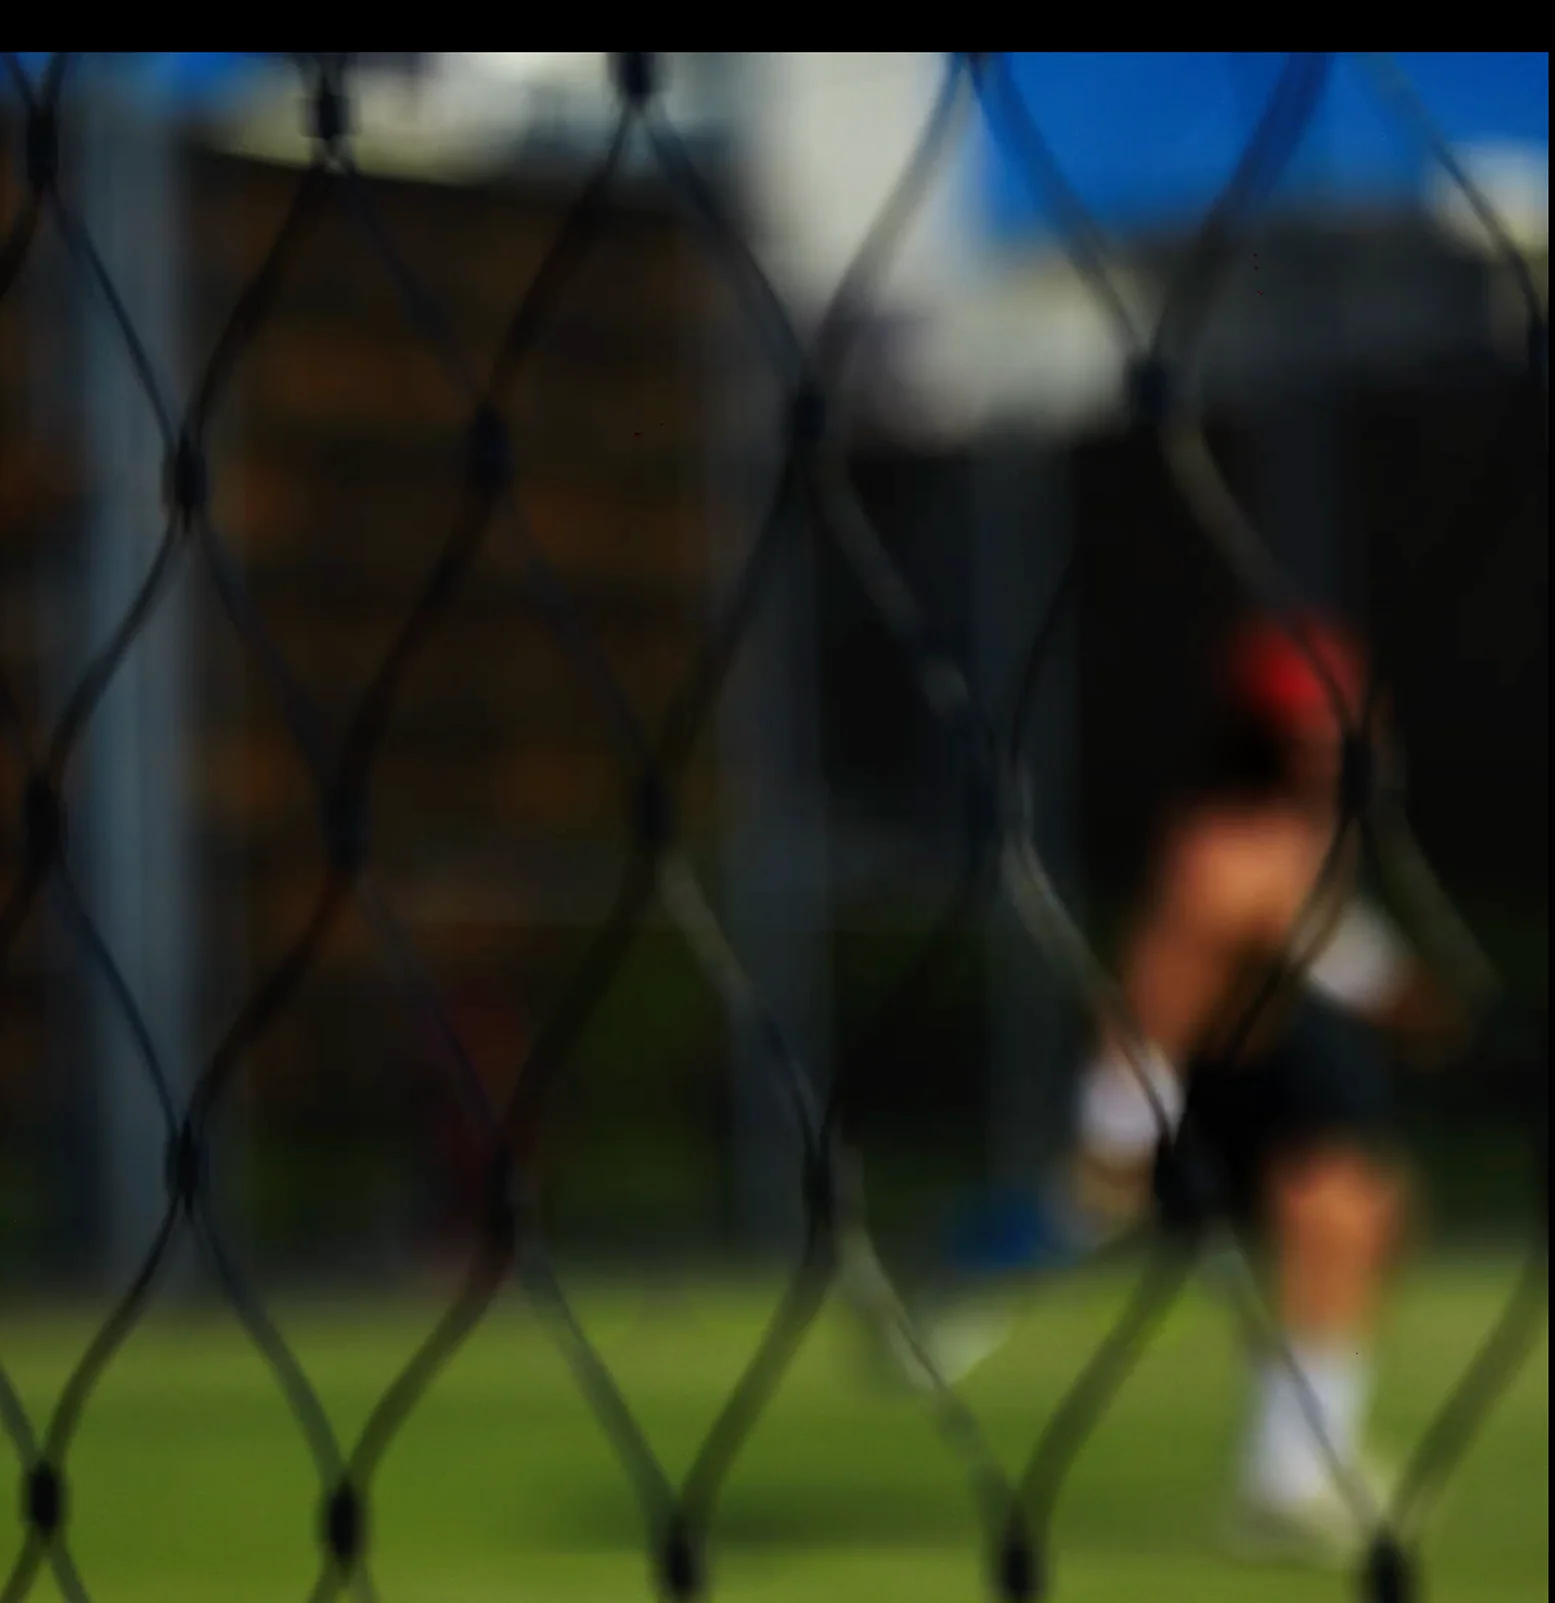
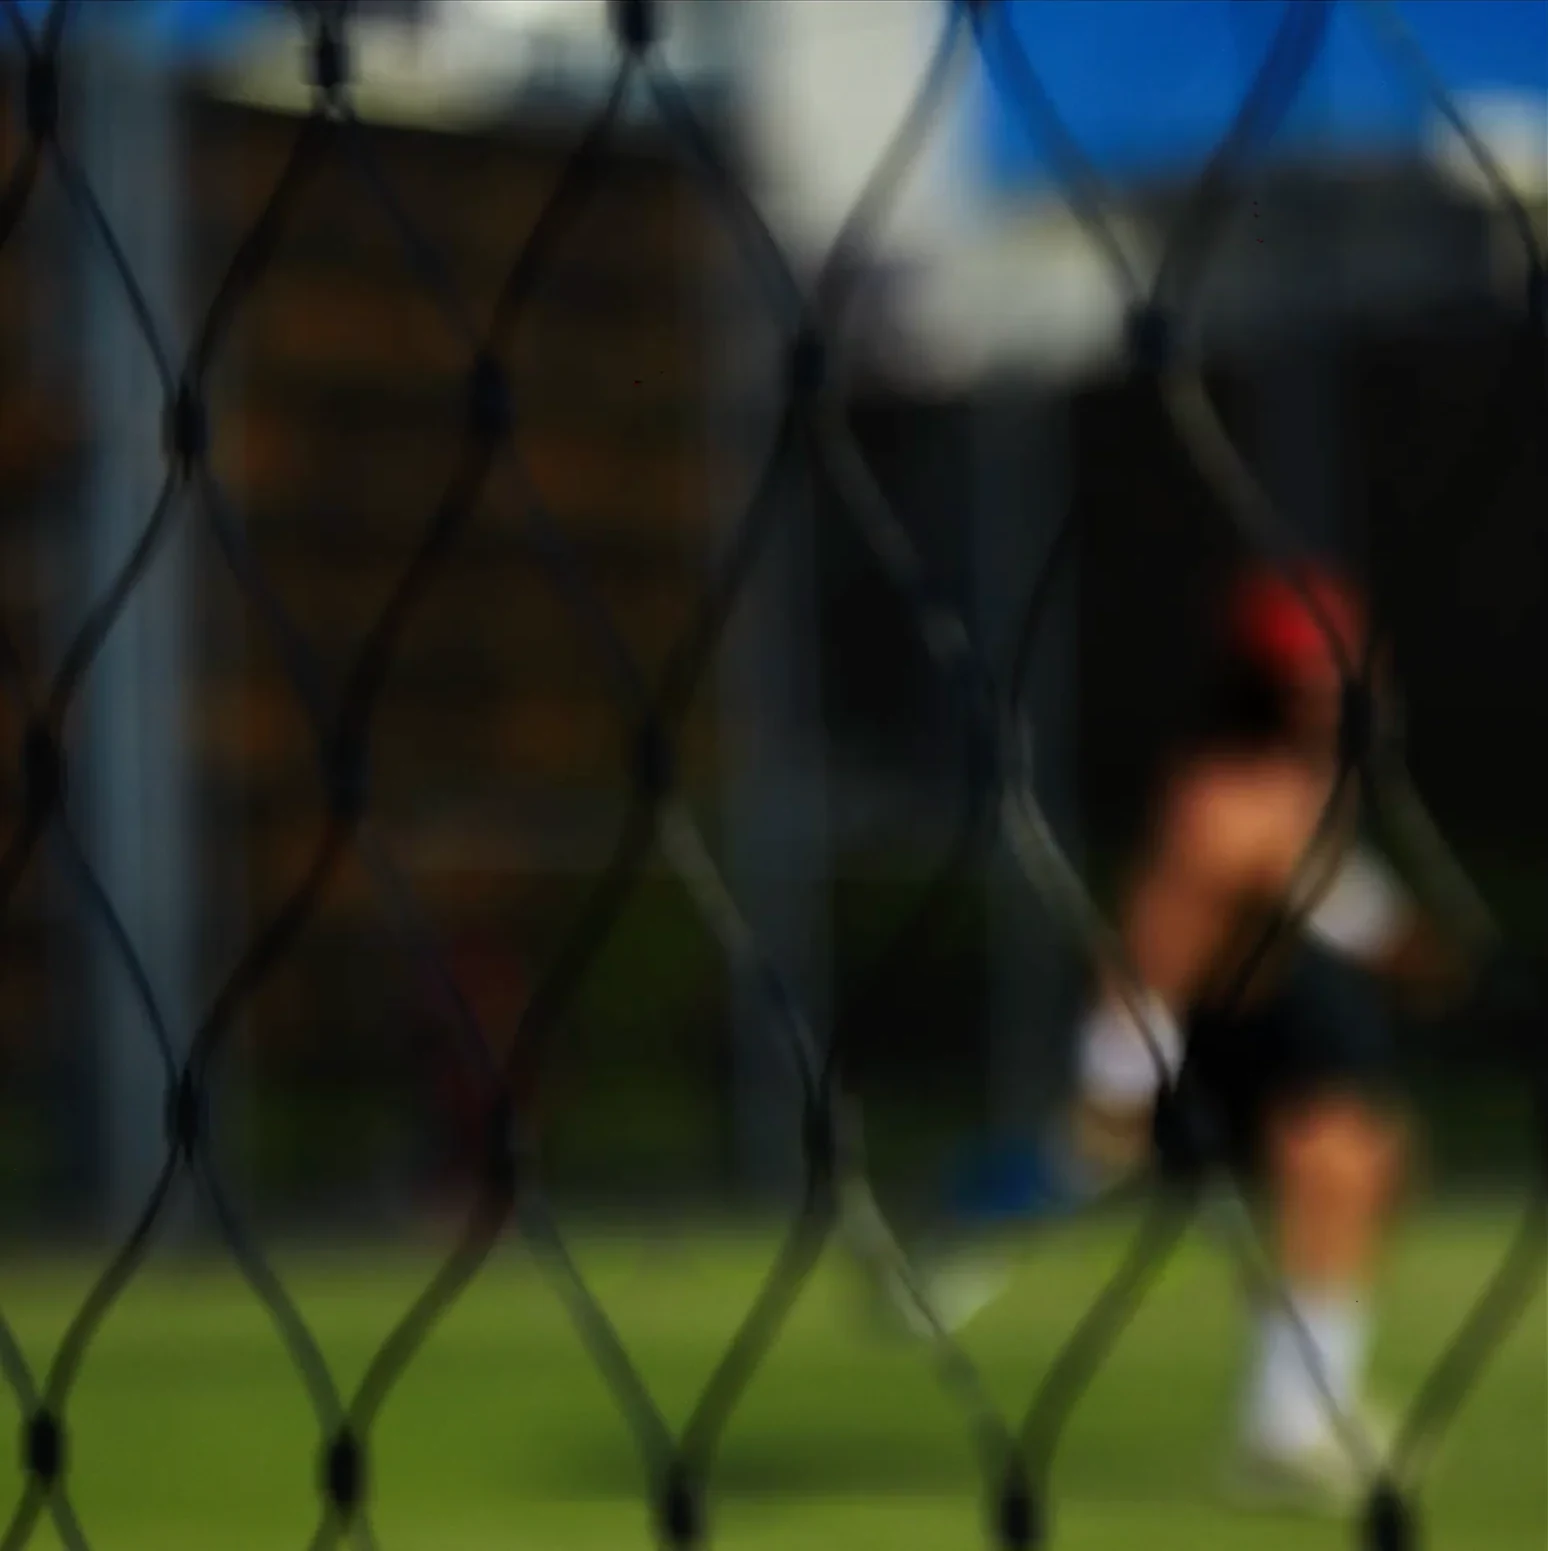
Pied de page Sport : espaces avant et après doublés (3,50 % → 7,00 %)

diff --git a/assets/css/style.css b/assets/css/style.css
@@ -278,13 +278,18 @@ body.home-page{
   background:transparent;           /* transparent : le titre de section reste visible dessous */
   transition:opacity .28s ease;
 }
-/* Quand une image/vidéo passe derrière le logo ou le menu, ils s'estompent */
+/* Quand une image ou une vidéo passe derrière le logo, il ne s'estompe plus :
+   il devient simplement OPAQUE dans sa teinte grise habituelle. Les valeurs
+   ci-dessous sont l'exact équivalent solide de rgba(24,24,24,.22) et
+   rgba(24,24,24,.82) rendus sur le fond crème : l'aspect ne change donc pas
+   sur fond uni, et reste identique par-dessus n'importe quelle image.
+   Le menu, lui, continue de s'estomper. */
 .site-header .brand,
-.site-header nav{ transition:opacity .28s ease; }
-.site-header.brand-dim .brand{ opacity:.16; }
+.site-header nav{ transition:opacity .28s ease, color .28s ease; }
+.site-header.brand-dim .brand      { opacity:1; color:#CBCBC2; }
+.site-header.brand-dim .brand .sub { color:#41413F; }
 .site-header.nav-dim   nav   { opacity:.16; }
-.site-header .brand:hover,
-.site-header nav:hover{ opacity:1; }   /* on les récupère au survol */
+.site-header nav:hover{ opacity:1; }   /* on le récupère au survol */
 .brand{
   display:inline-block;                /* le bloc prend la largeur de « JP AYIVI » */
   font-family:"Jumper",sans-serif;
@@ -1042,9 +1047,11 @@ html.has-pastille body.reel-open .reel-close, html.has-pastille body.reel-open .
   text-align:center;
   font-family:"Jumper",sans-serif;
   color:var(--ink);
-  /* Espaces égaux avant et après le pied de page (choix client). La maquette
-     donnait 14,63 % au-dessus et 19,79 % en dessous : déséquilibre de 63 %. */
-  padding:3.50vw 0;
+  /* Espaces égaux avant et après le pied de page (choix client), doublés.
+     La maquette donnait 14,63 % au-dessus et 19,79 % en dessous : déséquilibre
+     de 63 %. Les 170 px hérités des conteneurs sont neutralisés plus haut,
+     l'écart n'est donc donné que par ce padding. */
+  padding:7.00vw 0;
 }
 /* Ligne de contact — Gotham Medium demandée. Le fichier Gotham n'est pas encore
    fourni : Maison Neue Medium, déjà installée, prend le relais. Le jour où le
@@ -1084,7 +1091,7 @@ html.has-pastille body.reel-open .reel-close, html.has-pastille body.reel-open .
 .foot-nav a{ transition:opacity .18s ease; }
 .foot-nav a:hover, .foot-contact a:hover{ opacity:.6; }
 @media(max-width:600px){
-  .site-footer{ padding:44px var(--pad); }
+  .site-footer{ padding:88px var(--pad); }
   .foot-contact{ flex-wrap:wrap; gap:10px; }
   .foot-contact .sep{ display:none; }
   .foot-social{ gap:26px; margin-top:20px; }

diff --git a/sport.html b/sport.html
@@ -1,5 +1,5 @@
 <!DOCTYPE html>
-<html lang="fr" data-build="20260827-2045">
+<html lang="fr" data-build="20260827-2200">
 <head>
 <meta charset="utf-8">
 <meta http-equiv="Cache-Control" content="no-cache, no-store, must-revalidate">
@@ -10,7 +10,7 @@
 <meta name="description" content="Sport — tennis, basket et films de terrain réalisés par JP AYIVI.">
 <link rel="preload" href="assets/fonts/JumperPERSONALUSEONLY-Black.ttf" as="font" type="font/ttf" crossorigin>
 <link rel="preload" href="assets/fonts/JumperPERSONALUSEONLY-Light.ttf" as="font" type="font/ttf" crossorigin>
-<link rel="stylesheet" href="assets/css/style.css?v=aeb7f0b4">
+<link rel="stylesheet" href="assets/css/style.css?v=5ace372a">
 </head>
 <body>
 <div class="pastille-cursor" aria-hidden="true"><span>Show<br>Reeel</span></div>
@@ -45,9 +45,9 @@
     <!-- B2 — 3 carrés de 29,5 %, écart 5,75 % (pleine largeur) -->
     <figure class="reel-item">
       <div class="reel-tri">
-        <div class="reel-media"><video src="media/sport_tennis_service.mp4" poster="media/poster_sport_tennis_service.webp" playsinline preload="none"></video></div>
-        <div class="reel-media"><video src="media/sport_tennis_flou.mp4" poster="media/poster_sport_tennis_flou.webp" playsinline preload="none"></video></div>
         <div class="reel-media"><video src="media/sport_tennis_shoot.mp4" poster="media/poster_sport_tennis_shoot.webp" playsinline preload="none"></video></div>
+        <div class="reel-media"><video src="media/sport_tennis_flou.mp4" poster="media/poster_sport_tennis_flou.webp" playsinline preload="none"></video></div>
+        <div class="reel-media"><video src="media/sport_tennis_service.mp4" poster="media/poster_sport_tennis_service.webp" playsinline preload="none"></video></div>
       </div>
       <figcaption class="reel-caption"><span class="client">TENNIS</span><span class="desc">Le geste</span></figcaption>
     </figure>

diff --git a/index.html b/index.html
@@ -1,5 +1,5 @@
 <!DOCTYPE html>
-<html lang="fr" data-build="20260827-2045">
+<html lang="fr" data-build="20260827-2200">
 <head>
 <meta charset="utf-8">
 <meta http-equiv="Cache-Control" content="no-cache, no-store, must-revalidate">
@@ -10,7 +10,7 @@
 <meta name="description" content="JP AYIVI, créateur d'images : réalisation, montage et motion design pour les marques, entreprises et institutions.">
 <link rel="preload" href="assets/fonts/JumperPERSONALUSEONLY-Black.ttf" as="font" type="font/ttf" crossorigin>
 <link rel="preload" href="assets/fonts/JumperPERSONALUSEONLY-Light.ttf" as="font" type="font/ttf" crossorigin>
-<link rel="stylesheet" href="assets/css/style.css?v=aeb7f0b4">
+<link rel="stylesheet" href="assets/css/style.css?v=5ace372a">
 </head>
 <body class="home-page">
 <div class="pastille-cursor" aria-hidden="true"><span>Show<br>Reeel</span></div>

diff --git a/reseaux.html b/reseaux.html
@@ -1,5 +1,5 @@
 <!DOCTYPE html>
-<html lang="fr" data-build="20260827-2045">
+<html lang="fr" data-build="20260827-2200">
 <head>
 <meta charset="utf-8">
 <meta http-equiv="Cache-Control" content="no-cache, no-store, must-revalidate">
@@ -10,7 +10,7 @@
 <meta name="description" content="Réseaux Sociaux — contenus courts, formats verticaux et campagnes social media réalisés par JP AYIVI.">
 <link rel="preload" href="assets/fonts/JumperPERSONALUSEONLY-Black.ttf" as="font" type="font/ttf" crossorigin>
 <link rel="preload" href="assets/fonts/JumperPERSONALUSEONLY-Light.ttf" as="font" type="font/ttf" crossorigin>
-<link rel="stylesheet" href="assets/css/style.css?v=aeb7f0b4">
+<link rel="stylesheet" href="assets/css/style.css?v=5ace372a">
 </head>
 <body>
 <div class="pastille-cursor" aria-hidden="true"><span>Show<br>Reeel</span></div>

diff --git a/motion.html b/motion.html
@@ -1,5 +1,5 @@
 <!DOCTYPE html>
-<html lang="fr" data-build="20260827-2045">
+<html lang="fr" data-build="20260827-2200">
 <head>
 <meta charset="utf-8">
 <meta http-equiv="Cache-Control" content="no-cache, no-store, must-revalidate">
@@ -10,7 +10,7 @@
 <meta name="description" content="Motion design — habillages, génériques et films d'animation réalisés par JP AYIVI.">
 <link rel="preload" href="assets/fonts/JumperPERSONALUSEONLY-Black.ttf" as="font" type="font/ttf" crossorigin>
 <link rel="preload" href="assets/fonts/JumperPERSONALUSEONLY-Light.ttf" as="font" type="font/ttf" crossorigin>
-<link rel="stylesheet" href="assets/css/style.css?v=aeb7f0b4">
+<link rel="stylesheet" href="assets/css/style.css?v=5ace372a">
 </head>
 <body>
 <div class="pastille-cursor" aria-hidden="true"><span>Show<br>Reeel</span></div>

diff --git a/fashion.html b/fashion.html
@@ -1,5 +1,5 @@
 <!DOCTYPE html>
-<html lang="fr" data-build="20260827-2045">
+<html lang="fr" data-build="20260827-2200">
 <head>
 <meta charset="utf-8">
 <meta http-equiv="Cache-Control" content="no-cache, no-store, must-revalidate">
@@ -10,7 +10,7 @@
 <meta name="description" content="Fashion — défilés, films de mode et campagnes textiles réalisés par JP AYIVI.">
 <link rel="preload" href="assets/fonts/JumperPERSONALUSEONLY-Black.ttf" as="font" type="font/ttf" crossorigin>
 <link rel="preload" href="assets/fonts/JumperPERSONALUSEONLY-Light.ttf" as="font" type="font/ttf" crossorigin>
-<link rel="stylesheet" href="assets/css/style.css?v=aeb7f0b4">
+<link rel="stylesheet" href="assets/css/style.css?v=5ace372a">
 </head>
 <body>
 <div class="pastille-cursor" aria-hidden="true"><span>Show<br>Reeel</span></div>

diff --git a/communication.html b/communication.html
@@ -1,5 +1,5 @@
 <!DOCTYPE html>
-<html lang="fr" data-build="20260827-2045">
+<html lang="fr" data-build="20260827-2200">
 <head>
 <meta charset="utf-8">
 <meta http-equiv="Cache-Control" content="no-cache, no-store, must-revalidate">
@@ -10,7 +10,7 @@
 <meta name="description" content="Communication — films de marque, com interne et externe réalisés par JP AYIVI.">
 <link rel="preload" href="assets/fonts/JumperPERSONALUSEONLY-Black.ttf" as="font" type="font/ttf" crossorigin>
 <link rel="preload" href="assets/fonts/JumperPERSONALUSEONLY-Light.ttf" as="font" type="font/ttf" crossorigin>
-<link rel="stylesheet" href="assets/css/style.css?v=aeb7f0b4">
+<link rel="stylesheet" href="assets/css/style.css?v=5ace372a">
 </head>
 <body>
 <div class="pastille-cursor" aria-hidden="true"><span>Show<br>Reeel</span></div>

diff --git a/studio.html b/studio.html
@@ -1,5 +1,5 @@
 <!DOCTYPE html>
-<html lang="fr" data-build="20260827-2045">
+<html lang="fr" data-build="20260827-2200">
 <head>
 <meta charset="utf-8">
 <meta http-equiv="Cache-Control" content="no-cache, no-store, must-revalidate">
@@ -10,7 +10,7 @@
 <meta name="description" content="Studio · Natures mortes, packshots et contenus produits réalisés par JP AYIVI.">
 <link rel="preload" href="assets/fonts/JumperPERSONALUSEONLY-Black.ttf" as="font" type="font/ttf" crossorigin>
 <link rel="preload" href="assets/fonts/JumperPERSONALUSEONLY-Light.ttf" as="font" type="font/ttf" crossorigin>
-<link rel="stylesheet" href="assets/css/style.css?v=aeb7f0b4">
+<link rel="stylesheet" href="assets/css/style.css?v=5ace372a">
 </head>
 <body>
 <div class="pastille-cursor" aria-hidden="true"><span>Show<br>Reeel</span></div>

diff --git a/evenementiel.html b/evenementiel.html
@@ -1,5 +1,5 @@
 <!DOCTYPE html>
-<html lang="fr" data-build="20260827-2045">
+<html lang="fr" data-build="20260827-2200">
 <head>
 <meta charset="utf-8">
 <meta http-equiv="Cache-Control" content="no-cache, no-store, must-revalidate">
@@ -10,7 +10,7 @@
 <meta name="description" content="Événementiel — captations et films d'événements réalisés par JP AYIVI.">
 <link rel="preload" href="assets/fonts/JumperPERSONALUSEONLY-Black.ttf" as="font" type="font/ttf" crossorigin>
 <link rel="preload" href="assets/fonts/JumperPERSONALUSEONLY-Light.ttf" as="font" type="font/ttf" crossorigin>
-<link rel="stylesheet" href="assets/css/style.css?v=aeb7f0b4">
+<link rel="stylesheet" href="assets/css/style.css?v=5ace372a">
 </head>
 <body>
 <div class="pastille-cursor" aria-hidden="true"><span>Show<br>Reeel</span></div>

diff --git a/food.html b/food.html
@@ -1,5 +1,5 @@
 <!DOCTYPE html>
-<html lang="fr" data-build="20260827-2045">
+<html lang="fr" data-build="20260827-2200">
 <head>
 <meta charset="utf-8">
 <meta http-equiv="Cache-Control" content="no-cache, no-store, must-revalidate">
@@ -10,7 +10,7 @@
 <meta name="description" content="Food — cocktails, pizze et films culinaires réalisés par JP AYIVI.">
 <link rel="preload" href="assets/fonts/JumperPERSONALUSEONLY-Black.ttf" as="font" type="font/ttf" crossorigin>
 <link rel="preload" href="assets/fonts/JumperPERSONALUSEONLY-Light.ttf" as="font" type="font/ttf" crossorigin>
-<link rel="stylesheet" href="assets/css/style.css?v=aeb7f0b4">
+<link rel="stylesheet" href="assets/css/style.css?v=5ace372a">
 </head>
 <body>
 <div class="pastille-cursor" aria-hidden="true"><span>Show<br>Reeel</span></div>

diff --git a/about.html b/about.html
@@ -1,5 +1,5 @@
 <!DOCTYPE html>
-<html lang="fr" data-build="20260827-2045">
+<html lang="fr" data-build="20260827-2200">
 <head>
 <meta charset="utf-8">
 <meta http-equiv="Cache-Control" content="no-cache, no-store, must-revalidate">
@@ -10,7 +10,7 @@
 <meta name="description" content="JP AYIVI, directeur artistique et réalisateur : approche hybride entre image réelle, design graphique et narration visuelle.">
 <link rel="preload" href="assets/fonts/JumperPERSONALUSEONLY-Black.ttf" as="font" type="font/ttf" crossorigin>
 <link rel="preload" href="assets/fonts/JumperPERSONALUSEONLY-Light.ttf" as="font" type="font/ttf" crossorigin>
-<link rel="stylesheet" href="assets/css/style.css?v=aeb7f0b4">
+<link rel="stylesheet" href="assets/css/style.css?v=5ace372a">
 </head>
 <body class="about-page">
 

diff --git a/showreel.html b/showreel.html
@@ -1,5 +1,5 @@
 <!DOCTYPE html>
-<html lang="fr" data-build="20260827-2045">
+<html lang="fr" data-build="20260827-2200">
 <head>
 <meta charset="utf-8">
 <meta http-equiv="Cache-Control" content="no-cache, no-store, must-revalidate">
@@ -10,7 +10,7 @@
 <meta name="description" content="Showreel de JP AYIVI — réalisation, montage et motion design.">
 <link rel="preload" href="assets/fonts/JumperPERSONALUSEONLY-Black.ttf" as="font" type="font/ttf" crossorigin>
 <link rel="preload" href="assets/fonts/JumperPERSONALUSEONLY-Light.ttf" as="font" type="font/ttf" crossorigin>
-<link rel="stylesheet" href="assets/css/style.css?v=aeb7f0b4">
+<link rel="stylesheet" href="assets/css/style.css?v=5ace372a">
 </head>
 <body>
 <div class="pastille-cursor" aria-hidden="true"><span>Show<br>Reeel</span></div>
